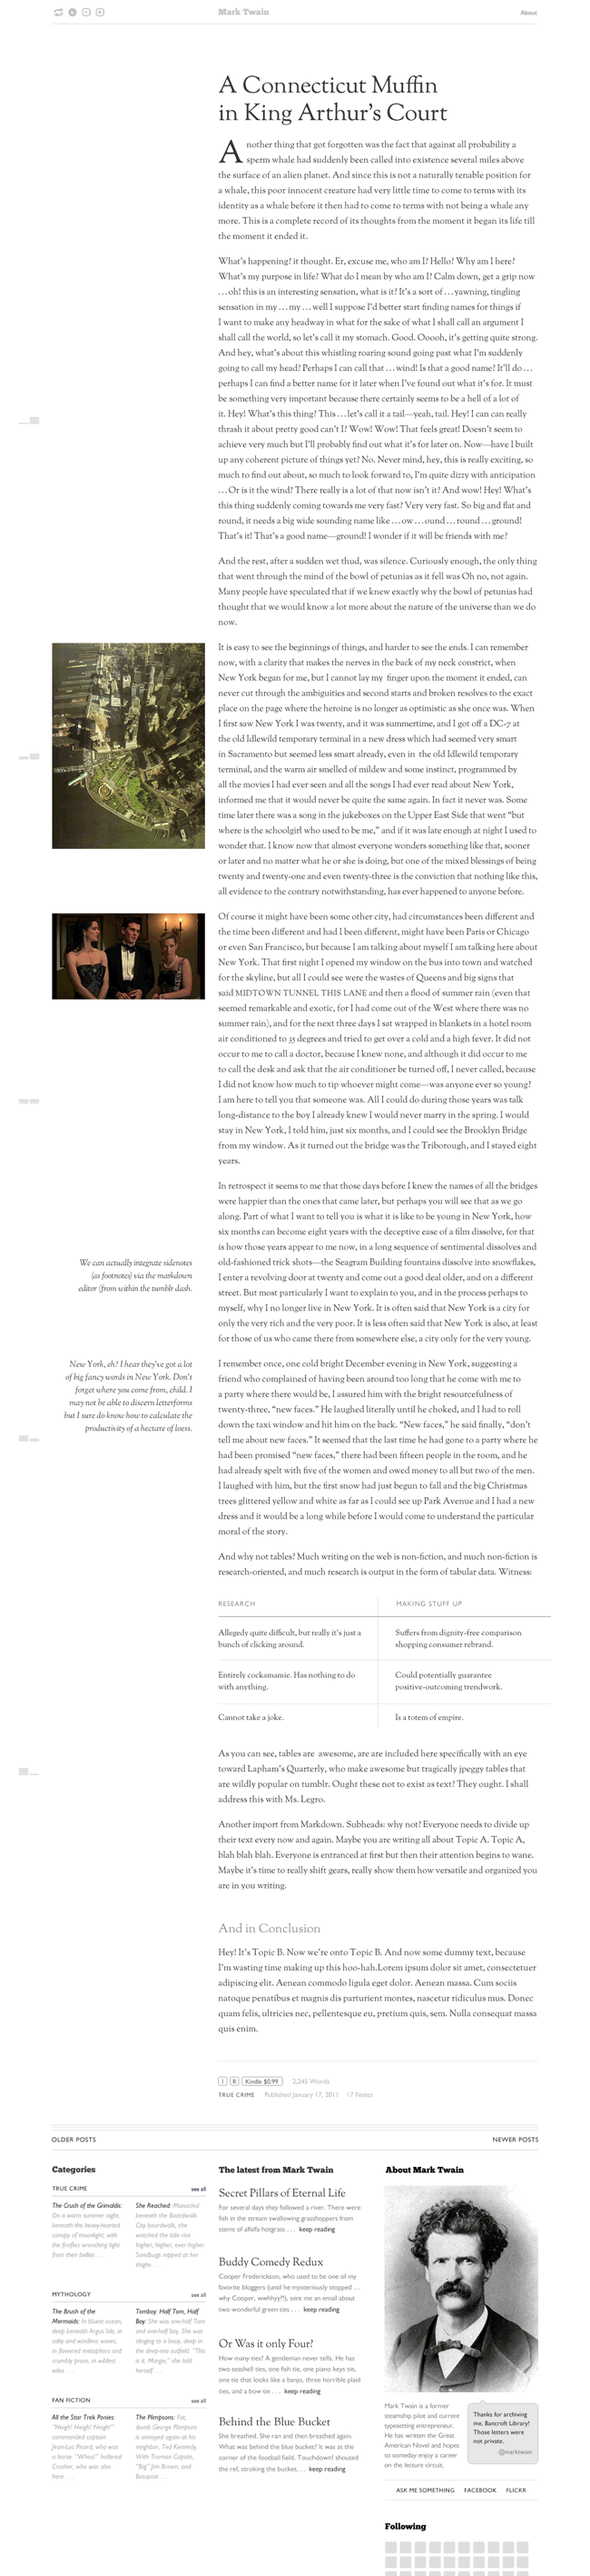
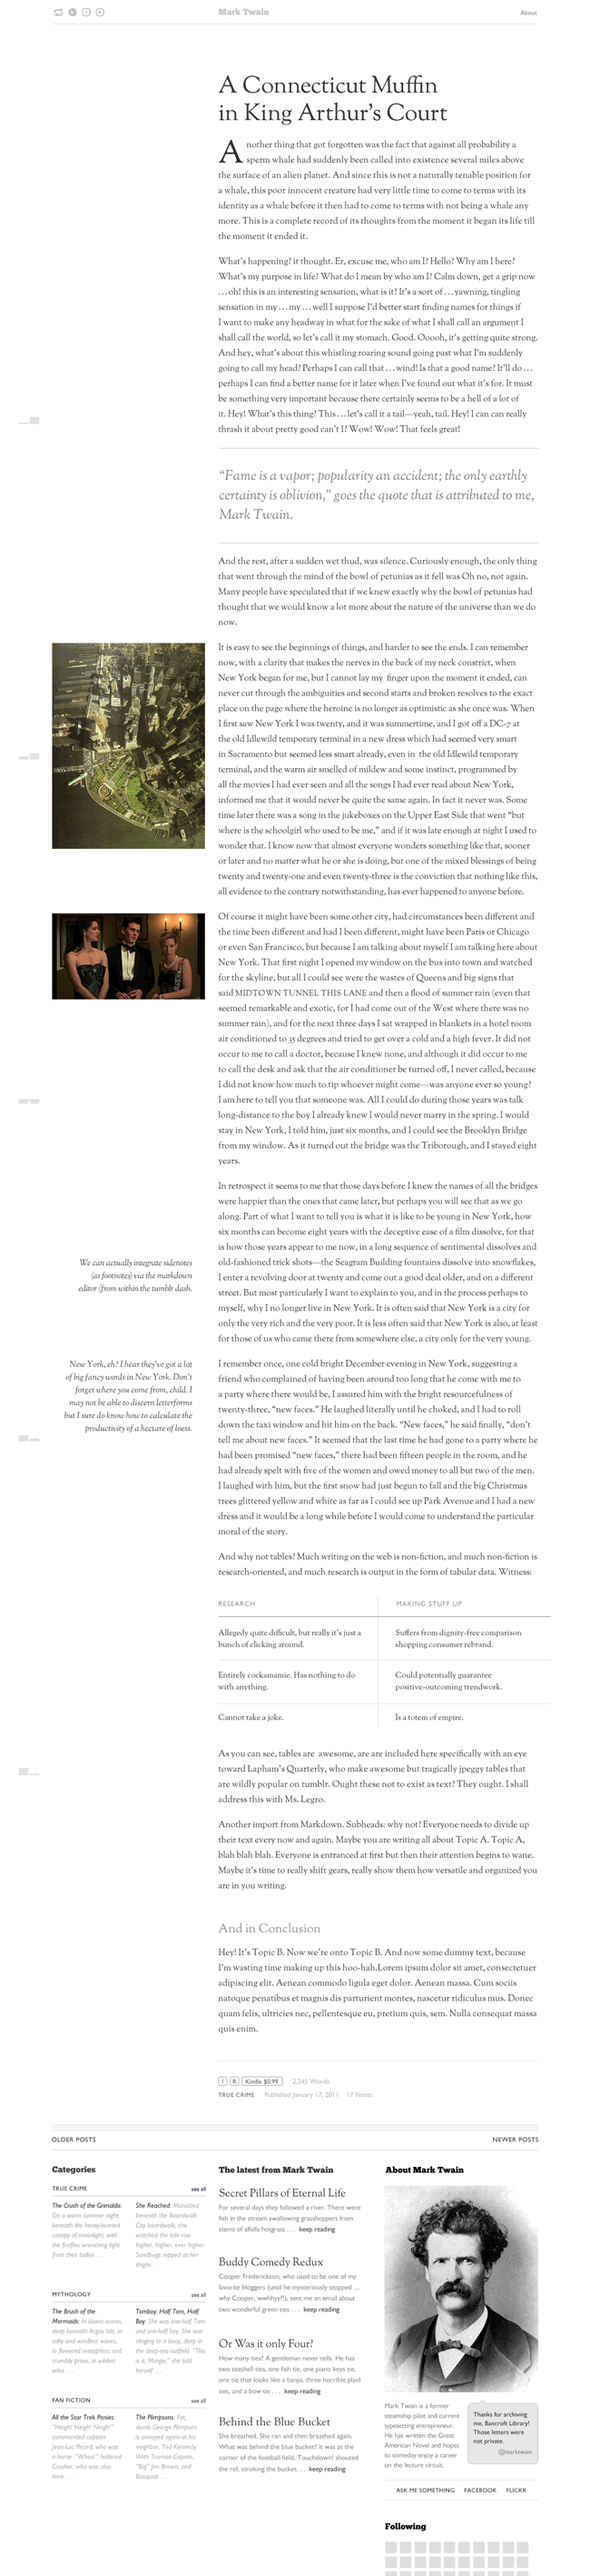
Pullquote blurb added

Changed region(s): [[0.3692, 0.1553, 0.8923, 0.2174]]

diff --git a/index.html b/index.html
@@ -85,6 +85,11 @@
           <h2 class="l3">Writing for Reading</h2>
           <p>Needless to say, Imprint isn&rsquo;t just about writing. It&rsquo;s also about reading. Hence: thoughtfully typeset text, with a generous measure, smart leading, and no distractions.</p>
         </li>
+        <li id="o-pullquotes">
+          <div class="point"></div>
+          <h2>Pullquotes</h2>
+          <p>Reel in your readers by showing off your best lines.</p>
+        </li>
         <li class="lefty" id="o-images">
           <div class="point"></div>
           <h2>Elegant Images</h2>

diff --git a/imprint.css b/imprint.css
@@ -225,6 +225,9 @@ ul.bubbles {
 
 #o-reading {
   top: 105px; }
+  
+#o-pullquotes {
+  top: 470px; }
 
 #o-images {
   top: 655px; }
